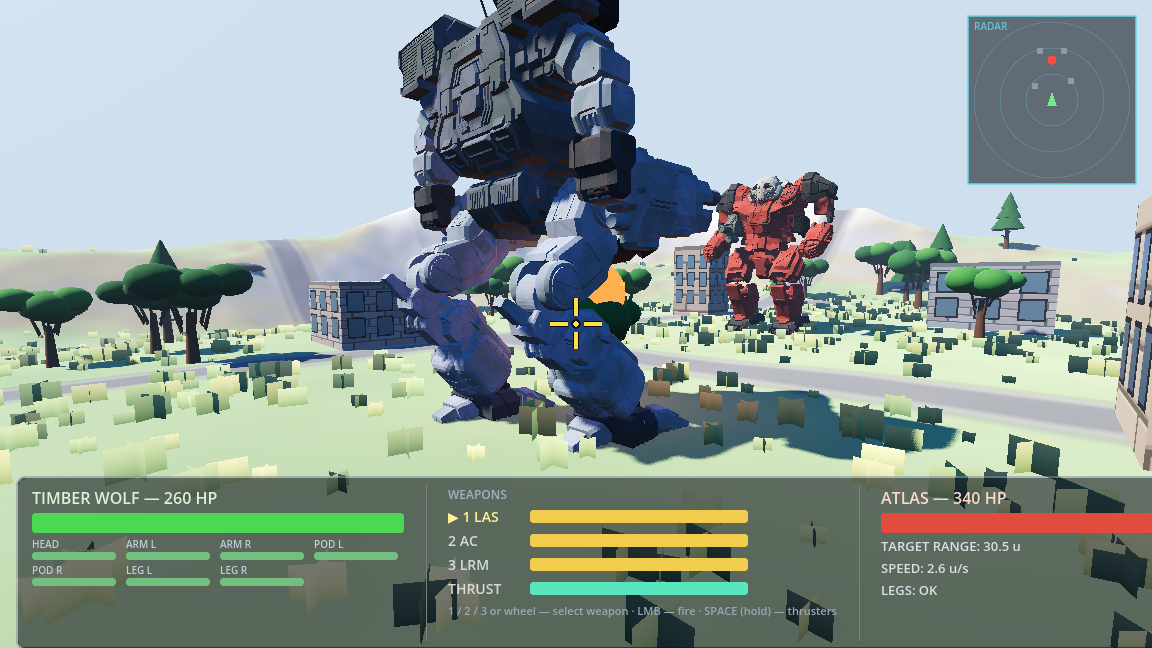
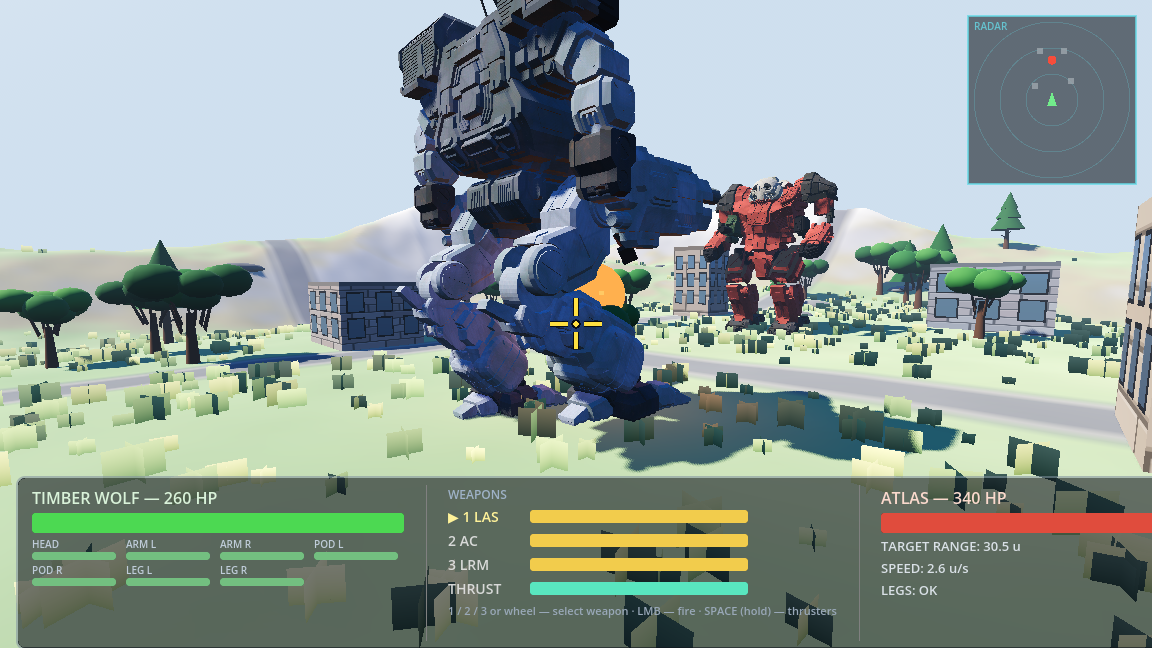
walker: frame-correct ONLY the swing's lateral axis (run stride restored)
Regression from the anti-scissor fix (owner): the Timber
Wolf's legs spread enormously in run mode. Re-projecting ALL
axes through the facing frame baked the forward prediction
offset into the local target, and that offset kept advancing
with the root — stride roughly doubled at 12.6 u/s, invisible
at the Atlas's 2.2 u/s walk where the fix was audited.
AdvanceLeg now rides the original world lerp for forward +
vertical (stride as tuned since round 19) and re-anchors
only the LATERAL coordinate to the current facing frame —
the anti-scissor property is unchanged. New RUNTEST stance
audit: maxAnkleSplit 6.34u at steady 11.52 u/s (the buggy
projection put it past 11); duel + terrain suites green.

diff --git a/godot/MechWalker.cs b/godot/MechWalker.cs
@@ -529,18 +529,26 @@ public partial class MechWalker : Node3D
         leg.StepT += h / _cfg.StepTime;
         float t = Mathf.Clamp(leg.StepT, 0f, 1f);
         float e = t * t * (3f - 2f * t);
-        // Re-project the swing through the CURRENT facing frame:
-        // the in-frame path is a straight sagittal line (lateral
-        // component constant by construction), however much the
-        // mech turned during the step. The target's local height
-        // tracks the real ground under its moving world position.
-        var yawB = YawBasis();
-        var toW = _rootPos + yawB * leg.StepToLocal;
-        leg.StepToLocal.Y = Main.HeightAt(toW.X, toW.Z) - _rootPos.Y;
-        var pos = _rootPos + yawB * leg.StepFromLocal.Lerp(leg.StepToLocal, e);
+        // Swing path: forward and vertical ride the original
+        // WORLD-space lerp (stride length exactly as tuned), but
+        // the LATERAL coordinate is re-anchored to the CURRENT
+        // facing frame \u2014 in-frame it lerps straight from the old
+        // plant's lateral to the target's, so a mid-step turn
+        // can't drag the foot across the body (the scissor), and
+        // the target can't run away from the body either.
+        // (The first cut re-projected ALL axes through the frame:
+        // the forward prediction offset baked into the local
+        // target kept advancing with the root, doubling the
+        // stride at run speed \u2014 the Timber Wolf's legs spread
+        // enormously in run mode. Forward must stay world-anchored.)
+        var pos = leg.StepFrom.Lerp(leg.StepTo, e);
         pos.Y += Mathf.Sin(Mathf.Pi * t) * _cfg.StepLift;
-        leg.StepTo = new Vector3(toW.X, _rootPos.Y + leg.StepToLocal.Y, toW.Z);
+        var yawB = YawBasis();
+        var rel = yawB.Inverse() * (pos - _rootPos);
+        rel.X = leg.StepFromLocal.X + (leg.StepToLocal.X - leg.StepFromLocal.X) * e;
+        pos = _rootPos + yawB * rel;
         leg.SoleTarget = pos;
+        if (t >= 1f) leg.StepTo = pos; // plant at the corrected spot
         var qa = leg.StepBasisFrom.GetRotationQuaternion();
         var qb = leg.StepBasisTo.GetRotationQuaternion();
         leg.CurBasisW = new Basis(qa.Slerp(qb, e));

diff --git a/godot/MechDuel.Harness.cs b/godot/MechDuel.Harness.cs
@@ -1579,11 +1579,21 @@ public partial class MechDuel
                 _player.SetDrive(0f, PlayerMaxSpeed * RunFactor);
                 _enemy.SetDrive(_enemy.LegsYaw, 0f);
                 if (_tRunMark < 0f && _tPhaseT > 2.0) { _tRunFrom = _player.RootPos; _tRunMark = (float)_tPhaseT; }
+                if (_tRunMark >= 0f) // stance audit: how far apart do the feet get at run speed?
+                {
+                    var j = _player.DebugLegJoints();
+                    var fwdR = new Vector3(Mathf.Sin(_player.LegsYaw), 0f, Mathf.Cos(_player.LegsYaw));
+                    var rgtR = new Vector3(fwdR.Z, 0f, -fwdR.X);
+                    var rel = j[1].Item4 - j[0].Item4;
+                    _tRunMaxSplit = Mathf.Max(_tRunMaxSplit, Mathf.Abs(rel.Dot(fwdR)));
+                    _tRunMaxLat = Mathf.Max(_tRunMaxLat, Mathf.Abs(rel.Dot(rgtR)));
+                }
                 if (_tPhaseT > 4.2)
                 {
                     var d = new Vector2(_player.RootPos.X - _tRunFrom.X, _player.RootPos.Z - _tRunFrom.Z).Length();
                     float avg = d / ((float)_tPhaseT - _tRunMark);
-                    GD.Print($"RUNTEST steadySpeed={avg:F2} (cmd {PlayerMaxSpeed * RunFactor:F1}) segDist={d:F1} maxSlide={_player.MaxSlide:F4} maxPlantedDiff={_player.MaxPlantedDiff():F3}");
+                    GD.Print($"RUNTEST steadySpeed={avg:F2} (cmd {PlayerMaxSpeed * RunFactor:F1}) segDist={d:F1} maxSlide={_player.MaxSlide:F4} maxPlantedDiff={_player.MaxPlantedDiff():F3} maxAnkleSplit={_tRunMaxSplit:F2} maxAnkleLat={_tRunMaxLat:F2}");
+                    if (_tRunMaxSplit > 10f) { TFail($"run ankle split {_tRunMaxSplit:F2} > 10 (legs spread)"); return; }
                     if (avg < 11.4f) { TFail($"run steady speed {avg:F2} < 11.4"); return; }
                     if (_player.MaxPlantedDiff() > 0.08f) { TFail($"run planted diff {_player.MaxPlantedDiff():F3} > 0.08"); return; }
                     GD.Print("RUNTEST PASS run-mode speed reached, gait contact holds");

diff --git a/godot/MechDuel.cs b/godot/MechDuel.cs
@@ -167,6 +167,7 @@ public partial class MechDuel : Node3D
     private bool _tStrideLogged;
     private Vector3 _tRunFrom;
     private float _tRunMark = -1f;
+    private float _tRunMaxSplit, _tRunMaxLat;
     private float _tJumpApex, _tJumpGround;
     private bool _tJumpTried;
     private int _tJumpStage;
